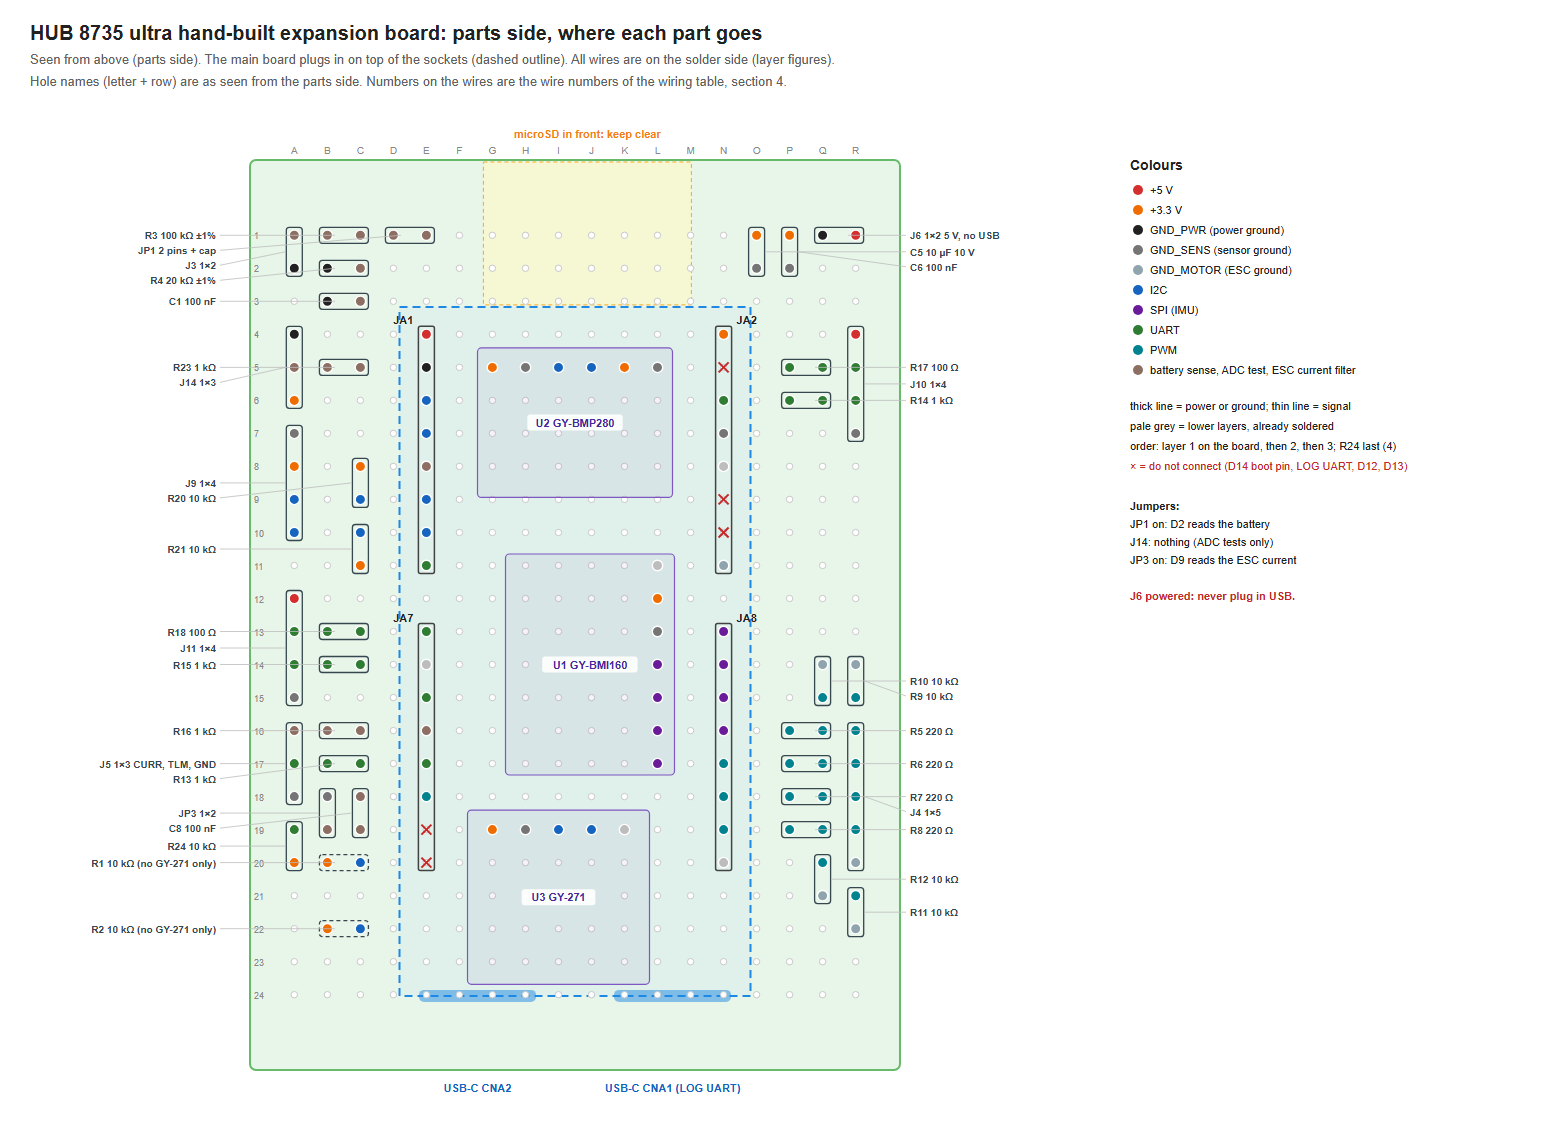
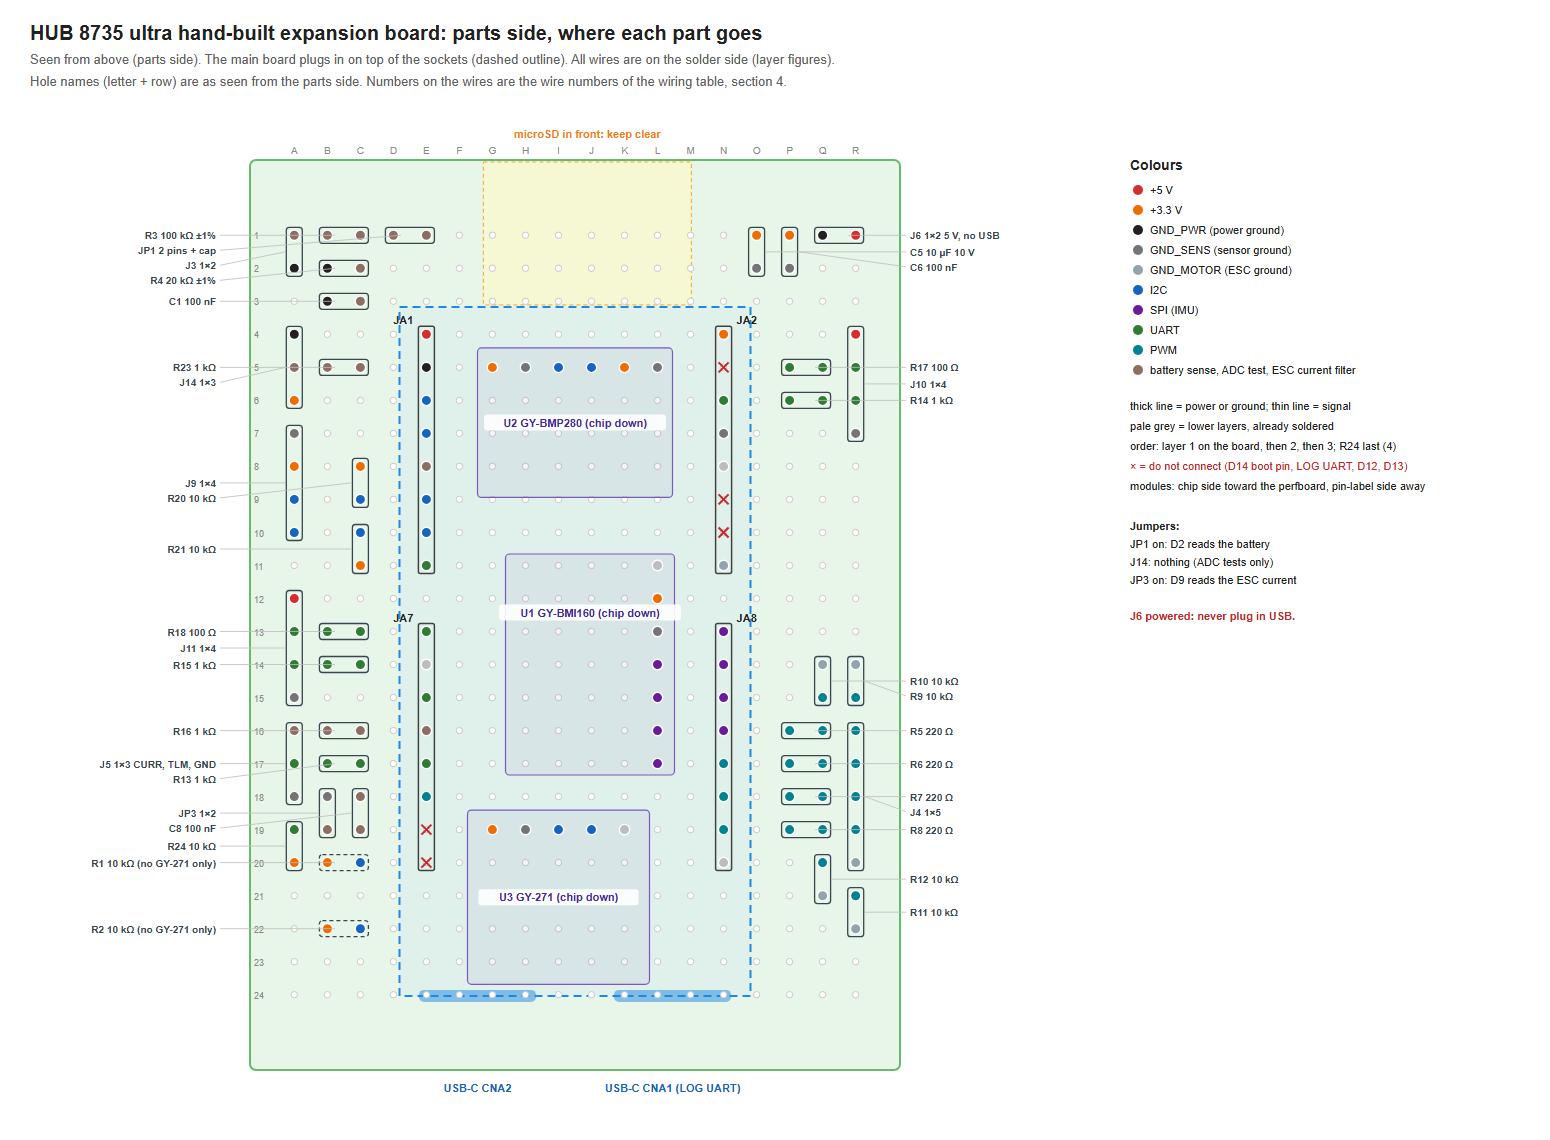
AP_HAL_RTL8735B: hand-build guide shows the modules chip side down
perfboard.md and its figures place the three sensor modules chip side
down, and Placement has a photo of the finished board.

diff --git a/libraries/AP_HAL_RTL8735B/hwdef/hub8735ultra-expansion/perfboard.md b/libraries/AP_HAL_RTL8735B/hwdef/hub8735ultra-expansion/perfboard.md
@@ -84,9 +84,16 @@ The three grounds meet only at the development board's header pins: `GND_PWR` = 
 
 ![Parts side: which holes each part goes in](perfboard/parts-side.png)
 
+![A finished expansion board, parts side up with the microSD end at the top: the three modules are chip side down, showing their printed pin names](perfboard/photo-parts-side.jpg)
+
+The photo is the board that later flew on the T5 quadcopter, taken before it was mounted. The figure above is the recommended layout: on the real board JP1 and some resistors sit elsewhere, and some resistors lie flat. The connections follow the wiring table in section 4.
+
 Solder side, one figure per layer (seen from below, so left and right are swapped): [layer 1](perfboard/solder-layer1.png), [layer 2](perfboard/solder-layer2.png), [layer 3](perfboard/solder-layer3.png), [layer 4](perfboard/solder-layer4.png).
 
 - Sockets: left row in column E, right row in column N (9 holes apart), pin 1 in row 4. The modules sit under the development board.
+- All three modules go in **chip side down**: the side with the printed pin names faces up, and the chips are not visible.
+  - GY-BMP280 and GY-271: header on the microSD side, module body toward the USB-C end.
+  - GY-BMI160: only the 7-pin row (VIN to SAO) gets a header, on the right (column L, VIN at the microSD end), body toward the left; the other row of 5 holes stays empty.
 - Headers sit in the outer columns (A, R) and the top rows, each with its resistors next to it in the same row as the development-board pin it goes to, so most signals are short straight wires. Nothing goes in front of the microSD slot (columns G–L, rows 1–3) or past the USB-C end, so the debug USB-C (CNA1) and the microSD slot stay free.
 - Tall parts (pin headers, standing resistors) only where the development board is not above them. A standing resistor next to the development board's edge stands in the outer hole and bends its other lead into the inner one.
 - PWM pull-downs: the wires to R10 and R11 pass over the next channel's solder joint (insulated wire).
@@ -190,7 +197,7 @@ Holes are named column letter + row, as seen from the **parts side** (A–R left
 
 1. Before: unplug USB and power; keep the development board off for now.
 2. Sockets: two full female strips in columns E and N, pin 1 in row 4. Plug the development board in once to check the fit, then take it off again.
-3. Modules: GY-BMP280 in G5–L5, GY-BMI160 in L11–L17, GY-271 in G19–K19; the GY-BMP280 and GY-271 bodies toward the USB-C end, the GY-BMI160 toward the left.
+3. Modules: GY-BMP280 in G5–L5, GY-BMI160 in L11–L17, GY-271 in G19–K19; the GY-BMP280 and GY-271 bodies toward the USB-C end, the GY-BMI160 toward the left. All three chip side down (printed pin names up).
 4. Resistors, capacitors, headers, JP1 and JP3 in the positions of the parts-side figure.
 5. Turn the board over and lay the wires layer by layer, in the order of section 4: all of layer 1 flat on the board, then layer 2 on top of it, then layer 3, each in number order. Insulated wire for anything longer than two holes; a wire listed with "over joints" lies across those joints, which are already soldered by then: do not heat them again once it is on.
 6. Last, R24 (10 kΩ pull-up on J5 pin 2): stand it in A19 (pin 2) and A20 (pin 1), then lay the 2 layer-4 wires in section 4. No other wire runs through A19 or A20.

diff --git a/libraries/AP_HAL_RTL8735B/hwdef/hub8735ultra-expansion/perfboard.zh-TW.md b/libraries/AP_HAL_RTL8735B/hwdef/hub8735ultra-expansion/perfboard.zh-TW.md
@@ -84,9 +84,16 @@
 
 ![零件面：每個零件插在哪些孔](perfboard/parts-side.zh-TW.png)
 
+![一塊焊好的擴充板，零件面朝上、microSD 端在上：三個模組晶片面朝下，看得到印腳名的那一面](perfboard/photo-parts-side.zh-TW.jpg)
+
+照片是後來裝上 T5 那台四軸飛過的那塊實板，裝機前拍的。上面的圖是整理過的建議擺法：JP1 和部分電阻在實板上的位置不同，有些電阻是平躺的。接法以第 4 節的接線表為準。
+
 焊接面每層一張（從底下看，左右相反）：[第 1 層](perfboard/solder-layer1.zh-TW.png)、[第 2 層](perfboard/solder-layer2.zh-TW.png)、[第 3 層](perfboard/solder-layer3.zh-TW.png)、[第 4 層](perfboard/solder-layer4.zh-TW.png)。
 
 - 母座：左排 E 欄、右排 N 欄（相隔 9 格），第 1 腳在第 4 列。三個模組放在開發板底下。
+- 三個模組都是**晶片面朝下**插：印腳名的那一面朝上，看不到晶片。
+  - GY-BMP280、GY-271：排針在靠 microSD 那一邊，模組本體往 USB-C 端。
+  - GY-BMI160：只焊 7 腳那一排（VIN～SAO），排針在右邊（L 欄，VIN 在靠 microSD 那一端），本體往左；另一排 5 個孔不焊。
 - 排針放在最外欄（A、R）與上方幾列，電阻緊靠在旁邊、和要接的開發板腳同一列，大部分訊號是一段直線。microSD 前面（G～L 欄、第 1～3 列）和 USB-C 那一端外面都不放東西，除錯用的 USB-C（CNA1）和 microSD 都不會被擋。
 - 高的零件（排針、直立電阻）只放在開發板不會壓到的位置。靠開發板邊的直立電阻，本體站在外側那一孔，另一腳彎下來插內側那一孔。
 - PWM 的下拉：接 R10、R11 的線要跨過鄰路的焊點（用絕緣線）。
@@ -190,7 +197,7 @@
 
 1. 焊之前：拔掉 USB 與電源；開發板先不要插上。
 2. 母座：E 欄、N 欄各一條整條母座，第 1 腳在第 4 列。焊好先插一次開發板確認插得上，再拔下來。
-3. 模組：GY-BMP280 在 G5～L5、GY-BMI160 在 L11～L17、GY-271 在 G19～K19；GY-BMP280、GY-271 的本體往 USB-C 端，GY-BMI160 往左。
+3. 模組：GY-BMP280 在 G5～L5、GY-BMI160 在 L11～L17、GY-271 在 G19～K19；GY-BMP280、GY-271 的本體往 USB-C 端，GY-BMI160 往左。三個都是晶片面朝下（印腳名的那一面朝上）。
 4. 電阻、電容、排針、JP1、JP3 照零件面圖的位置焊。
 5. 翻到焊接面，照第 4 節的順序一層一層拉線：第 1 層全部貼著板子拉完，再拉第 2 層疊在上面，然後第 3 層。每層照編號順序。超過兩孔的一律用有絕緣皮的線；「壓過焊點」有列的線，橫躺壓過那幾個焊點，那時它們都已經焊好：壓上去之後，那幾個焊點不要再加熱。
 6. 最後焊 R24（J5 第 2 腳的 10 kΩ 上拉）：直立插在 A19（第 2 腳）、A20（第 1 腳），再照第 4 節拉第 4 層的 2 條線。A19、A20 沒有別的線經過。
